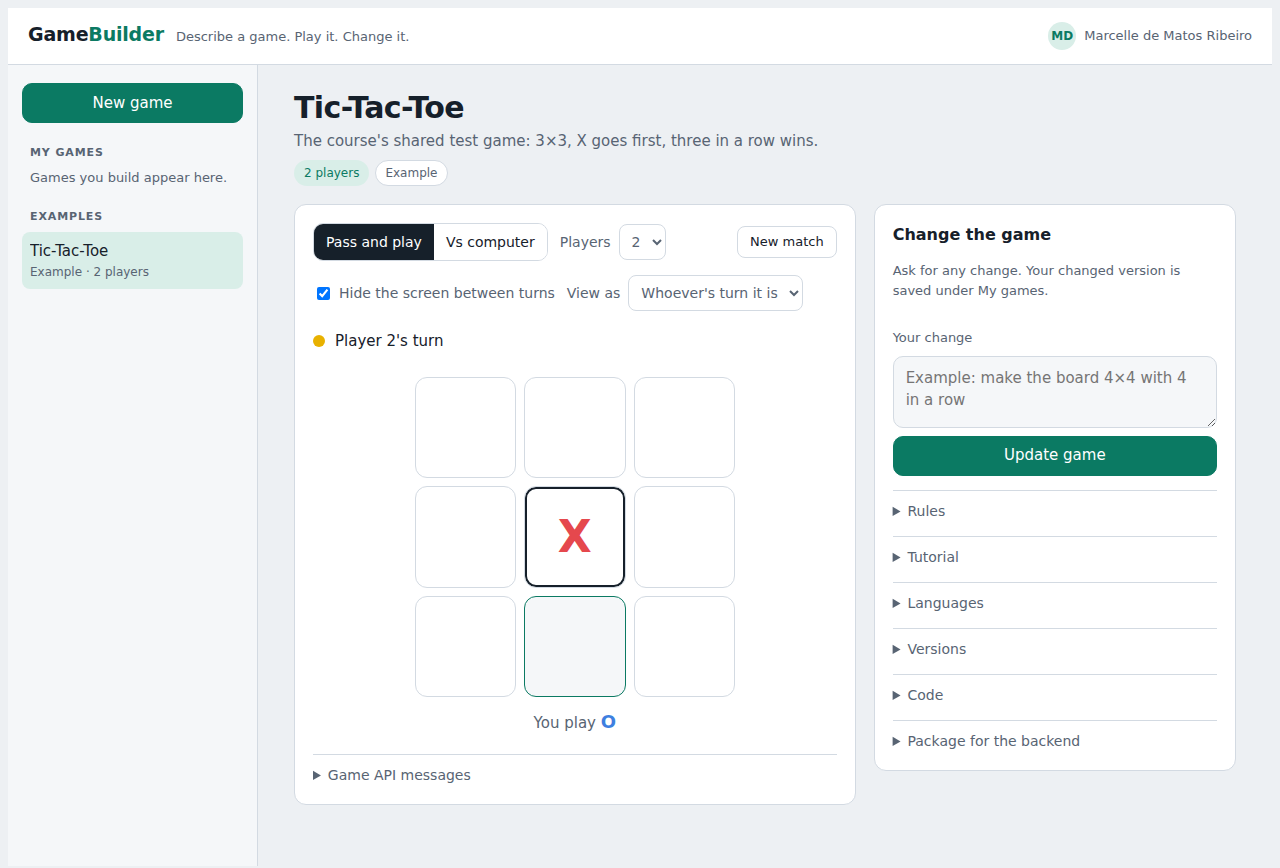
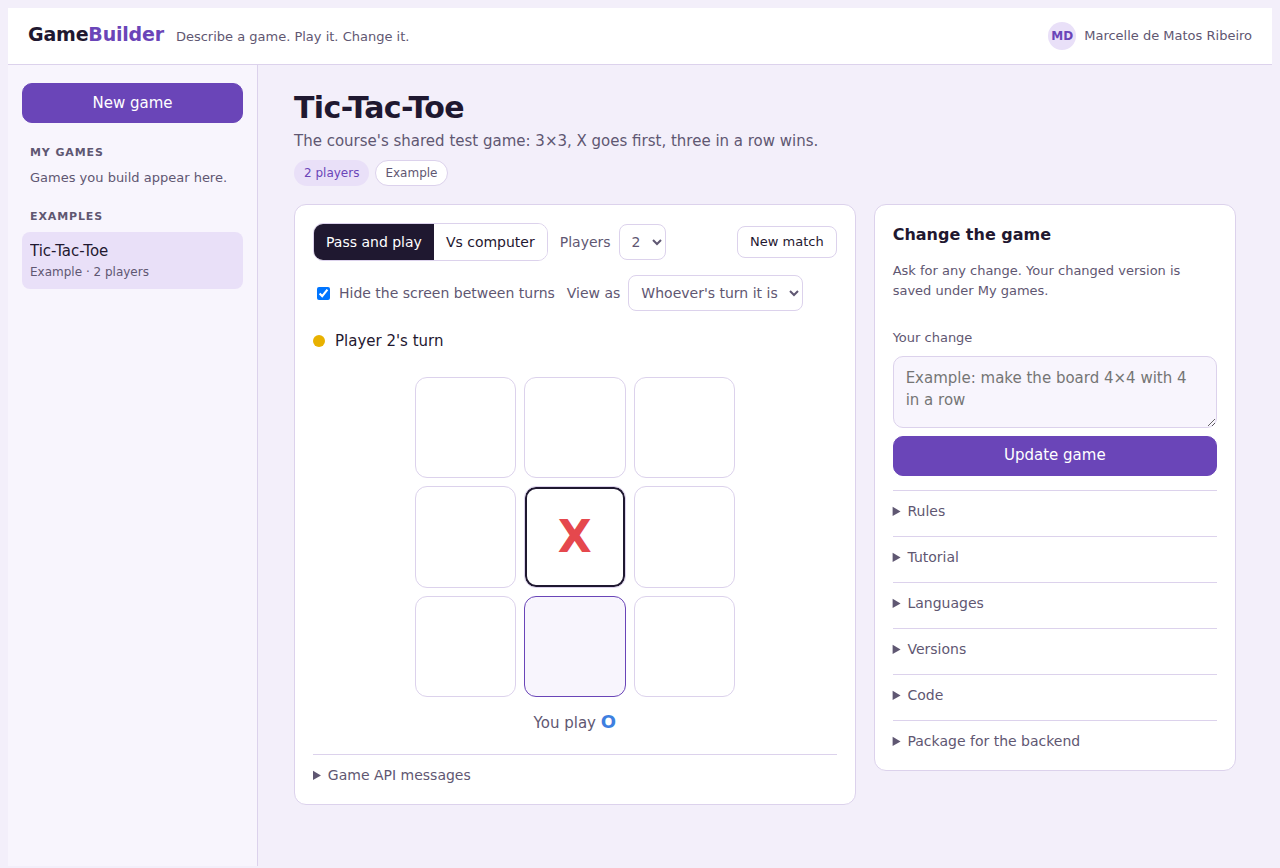
Restyle with a lavender and violet theme (light and dark)

diff --git a/src/index.html b/src/index.html
@@ -3,22 +3,22 @@
 <link rel="preconnect" href="https://fonts.gstatic.com" crossorigin>
 <link rel="stylesheet" href="https://fonts.googleapis.com/css2?family=IBM+Plex+Mono:wght@400;500&family=IBM+Plex+Sans:wght@400;500;600&family=Unbounded:wght@500;700&display=swap">
 <style>
-/* Layout: a workshop bench. Left rail lists games; the bench shows the composer, or the game table beside the change chat. */
+/* Palette: lavender ground with a deep violet accent. Layout: a workshop bench. Left rail lists games; the bench shows the composer, or the game table beside the change chat. */
 :root {
-  --bg: #EDF0F3;
+  --bg: #F3EFFA;
   --surface: #FFFFFF;
-  --surface-2: #F5F7F9;
-  --ink: #16202A;
-  --muted: #586473;
-  --line: #D3DAE2;
-  --accent: #0B7A63;
+  --surface-2: #F8F5FD;
+  --ink: #1F1830;
+  --muted: #5F5772;
+  --line: #DCD2EC;
+  --accent: #6A45B8;
   --accent-ink: #FFFFFF;
-  --accent-soft: #D9EEE8;
-  --board: #1E5E4F;
+  --accent-soft: #E9E0F8;
+  --board: #4A3383;
   --warn-bg: #FFF4E0;
   --warn-ink: #7A4A00;
   --danger: #B42318;
-  --code-bg: #F3F5F8;
+  --code-bg: #F5F1FB;
   --p0: #E5484D; --p1: #E8B100; --p2: #3E7FE0; --p3: #2F9E66; --p4: #8E4EC6;
   --p5: #F07A2E; --p6: #0FA3B1; --p7: #D6409F; --p8: #6E7B8B; --p9: #8A6A3C;
   --font-display: "Unbounded", "Trebuchet MS", system-ui, sans-serif;
@@ -28,16 +28,16 @@
 }
 @media (prefers-color-scheme: dark) {
   :root:not([data-theme="light"]) {
-    --bg: #0E1318; --surface: #151C23; --surface-2: #1B242D; --ink: #E4EAF0; --muted: #94A1AF;
-    --line: #2A3540; --accent: #3BB79A; --accent-ink: #062019; --accent-soft: #12352D; --board: #17463B;
-    --warn-bg: #3A2A0E; --warn-ink: #F6CF8A; --danger: #F2766B; --code-bg: #10161C;
+    --bg: #14101F; --surface: #1C1729; --surface-2: #231D33; --ink: #ECE7F5; --muted: #A69EBA;
+    --line: #352D48; --accent: #B59EF2; --accent-ink: #1B1131; --accent-soft: #2F2549; --board: #3B2A66;
+    --warn-bg: #3A2A0E; --warn-ink: #F6CF8A; --danger: #F2766B; --code-bg: #171224;
     color-scheme: dark;
   }
 }
 :root[data-theme="dark"] {
-  --bg: #0E1318; --surface: #151C23; --surface-2: #1B242D; --ink: #E4EAF0; --muted: #94A1AF;
-  --line: #2A3540; --accent: #3BB79A; --accent-ink: #062019; --accent-soft: #12352D; --board: #17463B;
-  --warn-bg: #3A2A0E; --warn-ink: #F6CF8A; --danger: #F2766B; --code-bg: #10161C;
+  --bg: #14101F; --surface: #1C1729; --surface-2: #231D33; --ink: #ECE7F5; --muted: #A69EBA;
+  --line: #352D48; --accent: #B59EF2; --accent-ink: #1B1131; --accent-soft: #2F2549; --board: #3B2A66;
+  --warn-bg: #3A2A0E; --warn-ink: #F6CF8A; --danger: #F2766B; --code-bg: #171224;
   color-scheme: dark;
 }
 * { box-sizing: border-box; }
